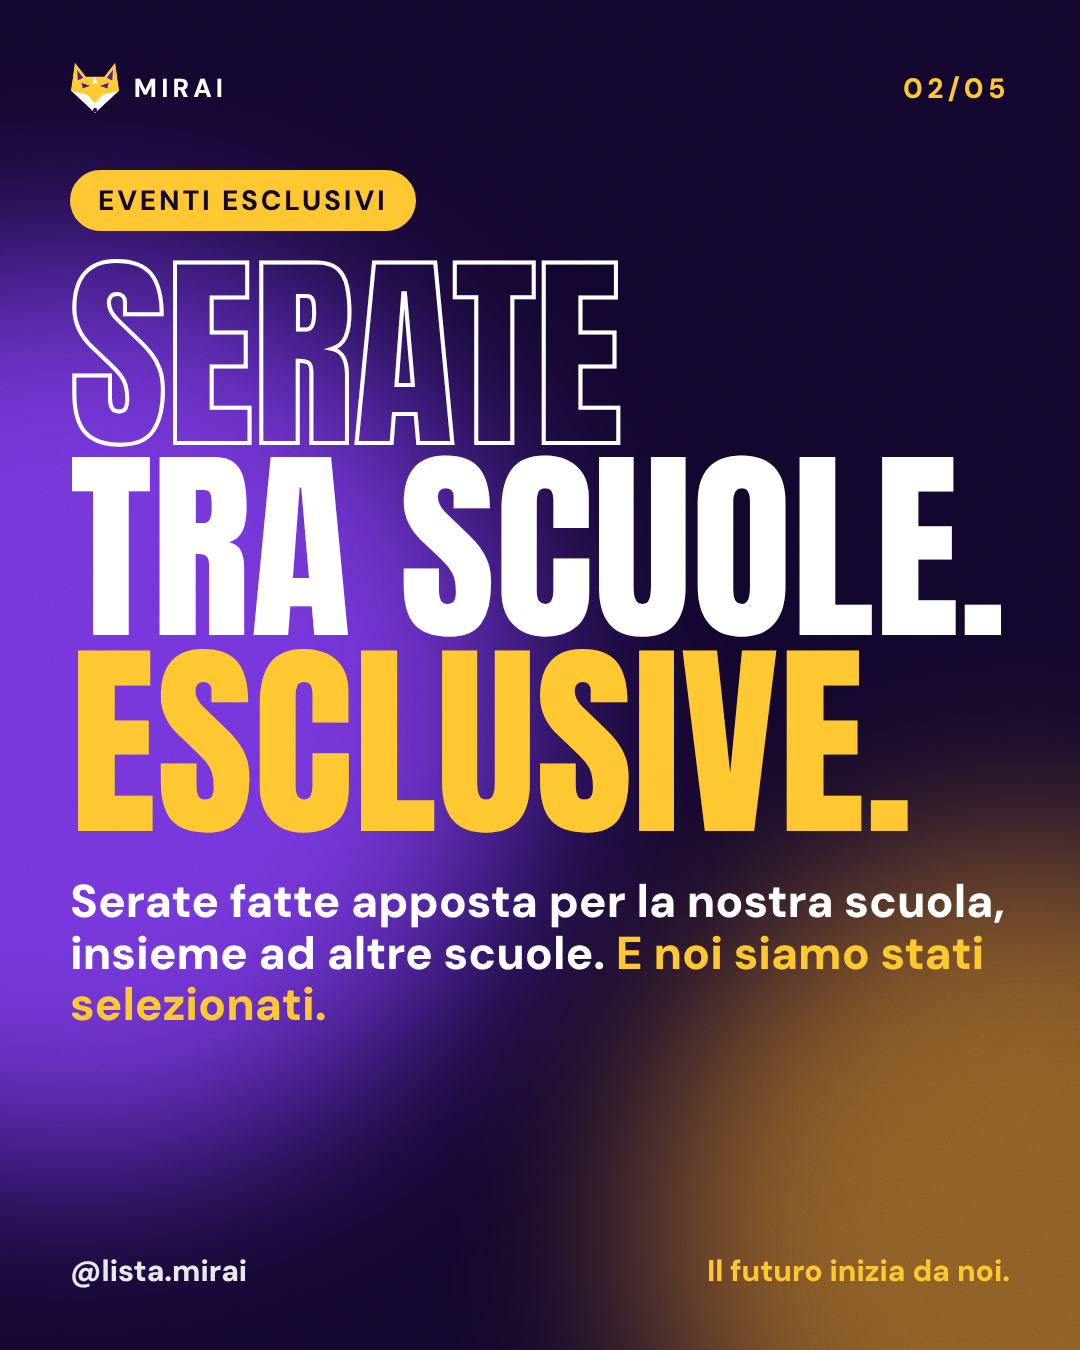
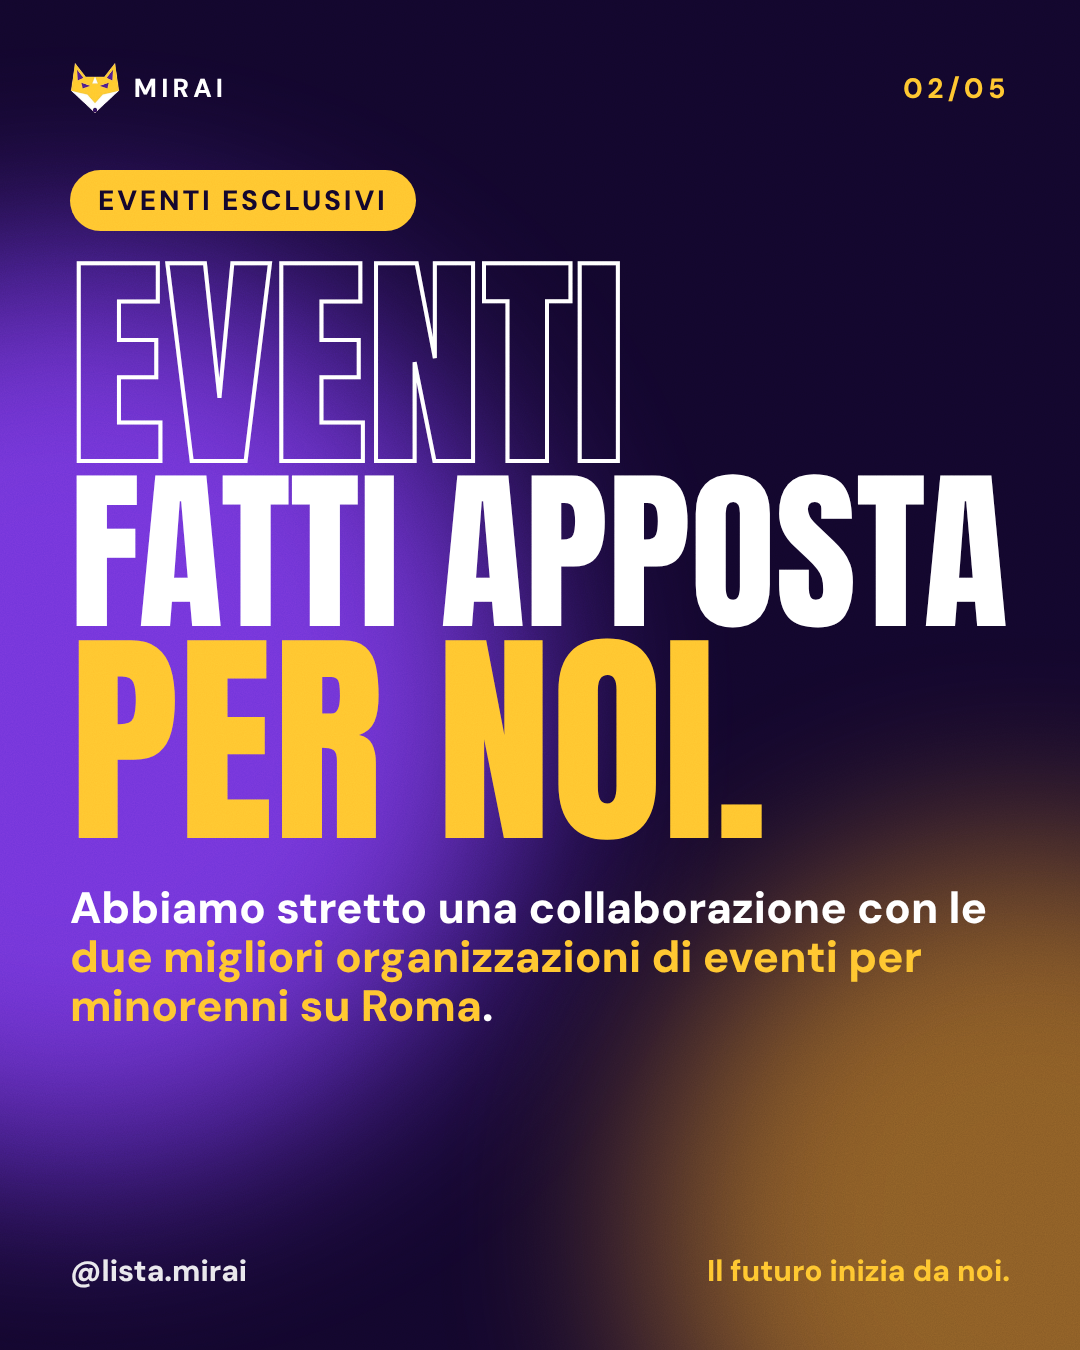
Collab: testi corretti, via cerchi sottili e scritta piccola dai locali

Changed region(s): [[0.0611, 0.1867, 0.9472, 0.6222], [0.0611, 0.6533, 0.9167, 0.7778]]

diff --git a/social/campagna/campagna.html b/social/campagna/campagna.html
@@ -92,14 +92,13 @@ body{background:#000;font-family:"DM Sans",sans-serif}
   <div style="display:flex;align-items:center;justify-content:center;gap:34px"><img src="img/astra.png" alt="Astra Events" style="height:170px;filter:drop-shadow(0 8px 18px rgba(255,110,60,.4))"><span style="font:800 64px/1 'DM Sans';color:var(--gold)">×</span><img src="img/hype.png" alt="Hype Events" style="height:170px;filter:drop-shadow(0 0 16px rgba(255,60,190,.6))"></div>
   <div class="sub" style="font-size:44px;max-width:880px">Collaborazione con <span style="color:var(--gold)">Hype Events</span> e <span style="color:var(--gold)">Astra Events</span></div></div><div class="handle"><span>@lista.mirai</span><b>Scorri →</b></div></section>
 <section class="c p v1" id="e1"><div class="blob b1"></div><div class="blob b2"></div><div class="brand"><img src="../../assets/fox-96.png" alt="">Mirai</div><div class="n">02/05</div><div style="position:absolute;left:70px;right:70px;top:170px;z-index:8"><span class="kick">Eventi esclusivi</span>
-  <div class="A" style="margin-top:26px"><div class="o" data-box="940" data-max="210">Serate</div><div class="w" data-box="940" data-max="210">tra scuole.</div><div class="g" data-box="940" data-max="210">Esclusive.</div></div>
-  <div class="sub" style="margin-top:36px;font-size:46px">Serate fatte apposta per la nostra scuola, insieme ad altre scuole. <span style="color:var(--gold)">E noi siamo stati selezionati.</span></div></div><div class="handle"><span>@lista.mirai</span><b>Il futuro inizia da noi.</b></div></section>
+  <div class="A" style="margin-top:26px"><div class="o" data-box="940" data-max="230">Eventi</div><div class="w" data-box="940" data-max="230">fatti apposta</div><div class="g" data-box="940" data-max="230">per noi.</div></div>
+  <div class="sub" style="margin-top:36px;font-size:44px">Abbiamo stretto una collaborazione con le <span style="color:var(--gold)">due migliori organizzazioni di eventi per minorenni su Roma</span>.</div></div><div class="handle"><span>@lista.mirai</span><b>Il futuro inizia da noi.</b></div></section>
 <section class="c p v2" id="e2"><div class="blob b1"></div><div class="blob b2"></div><div class="brand"><img src="../../assets/fox-96.png" alt="">Mirai</div><div class="n">03/05</div> <div class="ctr" style="top:150px;bottom:230px;gap:26px"><span class="kick">Per gli studenti</span>
   <div class="A" style="display:flex;flex-direction:column;align-items:center"><div class="w" data-box="900" data-max="190">Prezzi</div><div class="g" data-box="900" data-max="280">vantaggiosi.</div></div>
   <div class="sub" style="font-size:46px;max-width:800px">Nei <span style="color:var(--gold)">locali migliori</span>.</div></div><div class="handle"><span>@lista.mirai</span><b>Il futuro inizia da noi.</b></div></section>
-<section class="c p v1" id="e3"><div class="blob b1"></div><div class="blob b2"></div><div class="brand"><img src="../../assets/fox-96.png" alt="">Mirai</div><div class="n">04/05</div><div style="position:absolute;left:70px;right:70px;top:160px;z-index:8"><span class="kick">I locali</span>
-  <div class="sub" style="margin-top:22px;font-size:46px">Dove si va?</div></div>
- <div style="position:absolute;left:70px;right:70px;top:420px;z-index:8;display:flex;flex-direction:column;gap:14px"><div style="display:flex;align-items:baseline;gap:26px;margin-left:0px"><span style="font:800 34px 'DM Sans';color:var(--gold)">01</span><span class="A w" data-box="760" data-max="170">Kalaya</span></div><div style="display:flex;align-items:baseline;gap:26px;margin-left:60px"><span style="font:800 34px 'DM Sans';color:var(--gold)">02</span><span class="A o" data-box="760" data-max="170">Hacienda</span></div><div style="display:flex;align-items:baseline;gap:26px;margin-left:0px"><span style="font:800 34px 'DM Sans';color:var(--gold)">03</span><span class="A g" data-box="760" data-max="170">Qube</span></div><div style="display:flex;align-items:baseline;gap:26px;margin-left:60px"><span style="font:800 34px 'DM Sans';color:var(--gold)">04</span><span class="A o" data-box="760" data-max="170">Garden</span></div></div><div class="handle"><span>@lista.mirai</span><b>Il futuro inizia da noi.</b></div></section>
+<section class="c p v1" id="e3"><div class="blob b1"></div><div class="blob b2"></div><div class="brand"><img src="../../assets/fox-96.png" alt="">Mirai</div><div class="n">04/05</div><div style="position:absolute;left:70px;right:70px;top:160px;z-index:8"><span class="kick">I locali</span></div>
+ <div style="position:absolute;left:70px;right:70px;top:340px;z-index:8;display:flex;flex-direction:column;gap:22px"><div style="display:flex;align-items:baseline;gap:26px;margin-left:0px"><span style="font:800 34px 'DM Sans';color:var(--gold)">01</span><span class="A w" data-box="800" data-max="210">Kalaya</span></div><div style="display:flex;align-items:baseline;gap:26px;margin-left:60px"><span style="font:800 34px 'DM Sans';color:var(--gold)">02</span><span class="A o" data-box="800" data-max="210">Hacienda</span></div><div style="display:flex;align-items:baseline;gap:26px;margin-left:0px"><span style="font:800 34px 'DM Sans';color:var(--gold)">03</span><span class="A g" data-box="800" data-max="210">Qube</span></div><div style="display:flex;align-items:baseline;gap:26px;margin-left:60px"><span style="font:800 34px 'DM Sans';color:var(--gold)">04</span><span class="A o" data-box="800" data-max="210">Garden</span></div></div><div class="handle"><span>@lista.mirai</span><b>Il futuro inizia da noi.</b></div></section>
 <section class="c p v2" id="e4"><div class="blob b1"></div><div class="blob b2"></div><div class="brand"><img src="../../assets/fox-96.png" alt="">Mirai</div><div class="n">05/05</div><div class="ctr" style="top:150px;bottom:230px;gap:30px"><span class="kick">Lista 3 · Mirai</span>
   <div class="A" style="display:flex;flex-direction:column;align-items:center"><div class="w" data-box="940" data-max="190">Serate</div><div class="g" data-box="940" data-max="260">tutto l’anno.</div></div>
   <div style="display:flex;align-items:center;justify-content:center;gap:34px"><img src="img/astra.png" alt="Astra Events" style="height:130px;filter:drop-shadow(0 8px 18px rgba(255,110,60,.4))"><span style="font:800 64px/1 'DM Sans';color:var(--gold)">×</span><img src="img/hype.png" alt="Hype Events" style="height:130px;filter:drop-shadow(0 0 16px rgba(255,60,190,.6))"></div>

diff --git a/social/campagna/build.py b/social/campagna/build.py
@@ -74,15 +74,14 @@ H+=sec('p','e0',BR+f'<div class="n">01/0{N}</div>'+f'''<div class="ctr" style="t
   {LK(170)}
   <div class="sub" style="font-size:44px;max-width:880px">Collaborazione con <span style="color:var(--gold)">Hype Events</span> e <span style="color:var(--gold)">Astra Events</span></div></div>'''+HAND('Scorri →'),'v0')
 H+=sec('p','e1',BR+f'<div class="n">02/0{N}</div>'+'''<div style="position:absolute;left:70px;right:70px;top:170px;z-index:8"><span class="kick">Eventi esclusivi</span>
-  <div class="A" style="margin-top:26px"><div class="o" data-box="940" data-max="210">Serate</div><div class="w" data-box="940" data-max="210">tra scuole.</div><div class="g" data-box="940" data-max="210">Esclusive.</div></div>
-  <div class="sub" style="margin-top:36px;font-size:46px">Serate fatte apposta per la nostra scuola, insieme ad altre scuole. <span style="color:var(--gold)">E noi siamo stati selezionati.</span></div></div>'''+HAND(),'v1')
+  <div class="A" style="margin-top:26px"><div class="o" data-box="940" data-max="230">Eventi</div><div class="w" data-box="940" data-max="230">fatti apposta</div><div class="g" data-box="940" data-max="230">per noi.</div></div>
+  <div class="sub" style="margin-top:36px;font-size:44px">Abbiamo stretto una collaborazione con le <span style="color:var(--gold)">due migliori organizzazioni di eventi per minorenni su Roma</span>.</div></div>'''+HAND(),'v1')
 H+=sec('p','e2',BR+f'<div class="n">03/0{N}</div>'+''' <div class="ctr" style="top:150px;bottom:230px;gap:26px"><span class="kick">Per gli studenti</span>
   <div class="A" style="display:flex;flex-direction:column;align-items:center"><div class="w" data-box="900" data-max="190">Prezzi</div><div class="g" data-box="900" data-max="280">vantaggiosi.</div></div>
   <div class="sub" style="font-size:46px;max-width:800px">Nei <span style="color:var(--gold)">locali migliori</span>.</div></div>'''+HAND(),'v2')
-def lr(i,n,c,m=0):return f'<div style="display:flex;align-items:baseline;gap:26px;margin-left:{m}px"><span style="font:800 34px \'DM Sans\';color:var(--gold)">{i}</span><span class="A {c}" data-box="760" data-max="170">{n}</span></div>'
-H+=sec('p','e3',BR+f'<div class="n">04/0{N}</div>'+'''<div style="position:absolute;left:70px;right:70px;top:160px;z-index:8"><span class="kick">I locali</span>
-  <div class="sub" style="margin-top:22px;font-size:46px">Dove si va?</div></div>
- <div style="position:absolute;left:70px;right:70px;top:420px;z-index:8;display:flex;flex-direction:column;gap:14px">'''+lr('01','Kalaya','w')+lr('02','Hacienda','o',60)+lr('03','Qube','g')+lr('04','Garden','o',60)+'</div>'+HAND(),'v1')
+def lr(i,n,c,m=0):return f'<div style="display:flex;align-items:baseline;gap:26px;margin-left:{m}px"><span style="font:800 34px \'DM Sans\';color:var(--gold)">{i}</span><span class="A {c}" data-box="800" data-max="210">{n}</span></div>'
+H+=sec('p','e3',BR+f'<div class="n">04/0{N}</div>'+'''<div style="position:absolute;left:70px;right:70px;top:160px;z-index:8"><span class="kick">I locali</span></div>
+ <div style="position:absolute;left:70px;right:70px;top:340px;z-index:8;display:flex;flex-direction:column;gap:22px">'''+lr('01','Kalaya','w')+lr('02','Hacienda','o',60)+lr('03','Qube','g')+lr('04','Garden','o',60)+'</div>'+HAND(),'v1')
 H+=sec('p','e4',BR+f'<div class="n">05/0{N}</div>'+f'''<div class="ctr" style="top:150px;bottom:230px;gap:30px"><span class="kick">Lista 3 · Mirai</span>
   <div class="A" style="display:flex;flex-direction:column;align-items:center"><div class="w" data-box="940" data-max="190">Serate</div><div class="g" data-box="940" data-max="260">tutto l’anno.</div></div>
   {LK(130)}
